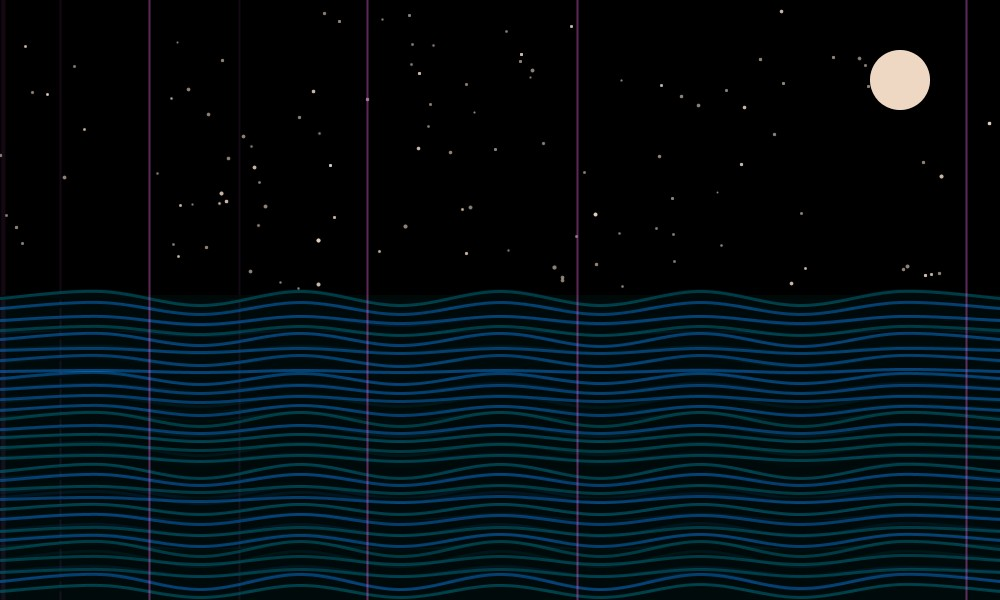
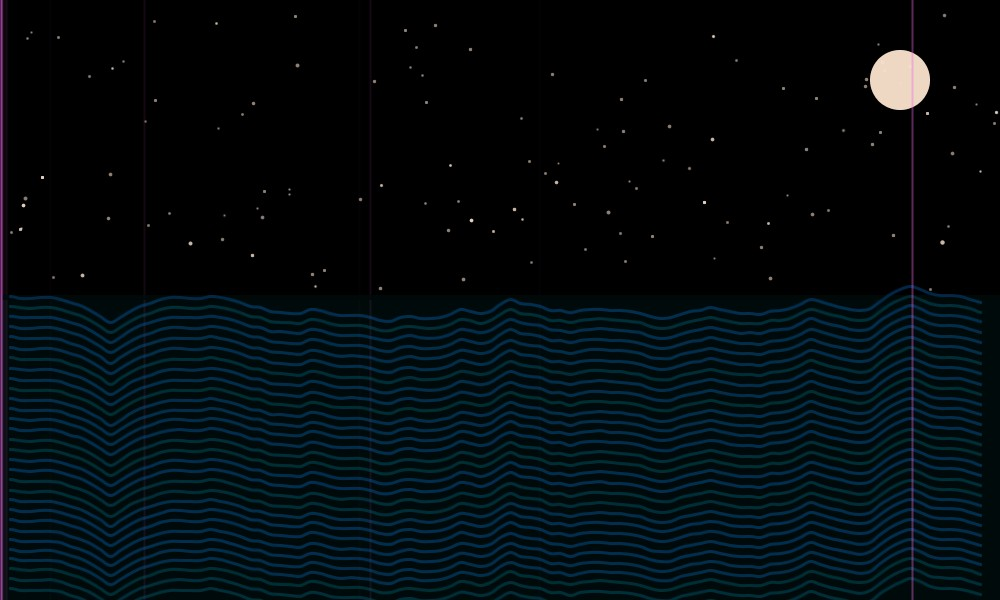
Update s_019 to curve lines

diff --git a/index.html b/index.html
@@ -260,7 +260,7 @@
 <p>------------------------------------------------------------------------------------------</p>
 
 <a id="s_019" href="#s_019"><h2>#019</h2></a>
-<p>Video demo <a class="bold_write" href="https://drive.google.com/file/d/19nDqkmH4jbd7Q3DaB6jeDno60kgL-9VS/view" target="_blank">here</a> / Python code <a class="bold_write" href="https://github.com/berinhard/sketches/tree/master/s_019/" target="_blank">here</a></p>
+<p>Video demo <a class="bold_write" href="https://drive.google.com/file/d/1FQlgD_yU7BiNkub5zkxIqcj6j8cqu1o3/view" target="_blank">here</a> / Python code <a class="bold_write" href="https://github.com/berinhard/sketches/tree/master/s_019/" target="_blank">here</a></p>
 <img alt="s_019" src="s_019/cover.jpg"></img>
 <p>Playing around with noise to create an ocean night.</p>
 

diff --git a/s_019/custom_lines.py b/s_019/custom_lines.py
@@ -1,33 +1,21 @@
 class DistortedLine:
     
-    def __init__(self, l_start, l_end, y_offset):
+    def __init__(self, l_start, l_end):
         self.l_start = l_start
         self.l_end = l_end
-        self.y_offset = y_offset
 
 class CurveLine(DistortedLine):
     
-    def display(self, len_wave, color_attrs, noise_step=0.02):
-        stroke(*color_attrs)
-            
+    def display(self, len_wave, color_attrs):
+        stroke(*color_attrs)            
+        fill(0, 10, 10, 0)
+
         x_offset = width / len_wave
         
-        fill(0, 10, 10, 200)
-        
         beginShape();
-        curveVertex(self.l_start[0], self.l_start[1]);
-        curveVertex(self.l_start[0], self.l_start[1]);
-        current_step = self.l_start[1] + frameCount * noise_step
-        for i in range(1, len_wave):
-            x = self.l_start[0] + i * x_offset
-            value = current_step + float(i) / 50
-            y_diff = self.y_offset + map(noise(value), 0, 1, -1 * self.y_offset, self.y_offset) 
-            if i % 2:
-                y_diff *= -1
-            
-            y = self.l_start[1] + y_diff 
-            curveVertex(x, y);
-
-        curveVertex(self.l_end[0], self.l_end[1])
-        curveVertex(self.l_end[0], self.l_end[1])
+        for i, x in enumerate(range(self.l_start[0], self.l_end[0], len_wave)):
+            t = float(-1 * frameCount) / 75 + float(i) / 10
+            distortion = noise(t) 
+            y = self.l_start[1] + map(distortion, 0, 1, -30, 30)
+            curveVertex(x, y)
         endShape()    
